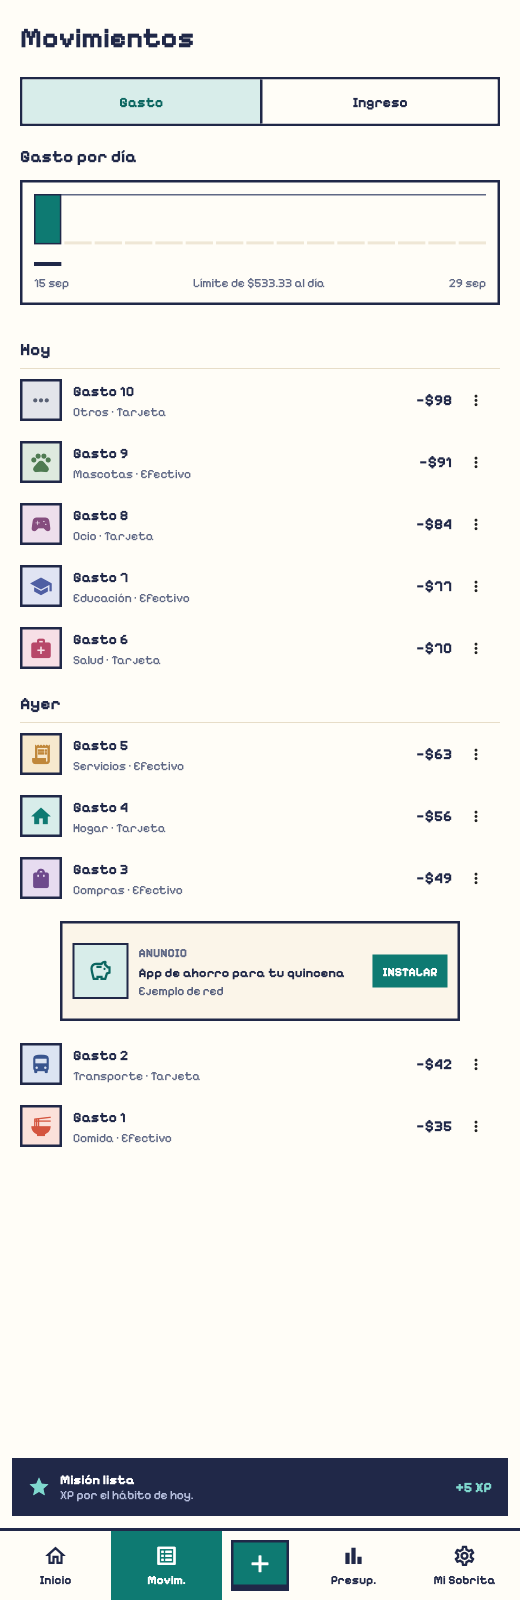
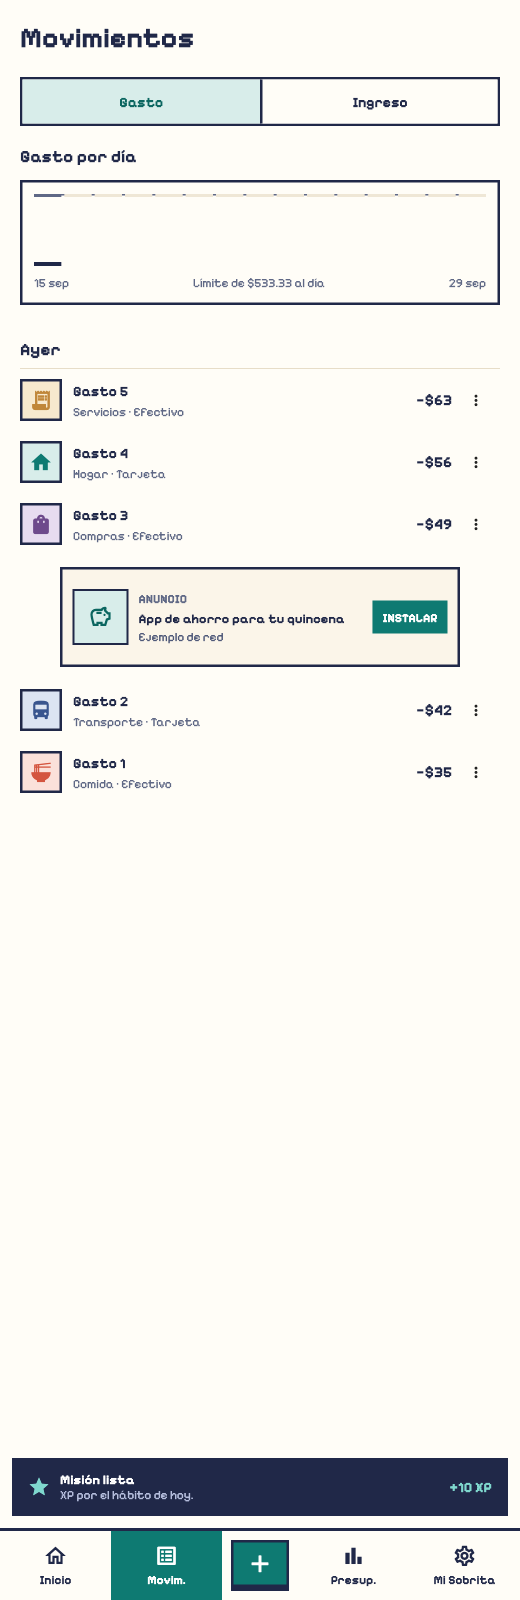
Adjust native ad eligibility and placement

diff --git a/test/native_ad_placement_test.dart b/test/native_ad_placement_test.dart
@@ -8,7 +8,6 @@ import 'package:sobra_app/models/pay_schedule.dart';
 import 'package:sobra_app/services/native_ad_service.dart';
 import 'package:sobra_app/state/sobra_store.dart';
 import 'package:sobra_app/theme/app_theme.dart';
-import 'package:sobra_app/widgets/pixel_ui.dart';
 import 'package:sobra_app/widgets/sobra_native_ad.dart';
 
 import 'support/localizations.dart';
@@ -107,14 +106,14 @@ Future<SobraStore> _storeWithExpenses(int count) async {
 }
 
 void main() {
-  testWidgets('seven expense rows do not reserve a native slot', (tester) async {
+  testWidgets('two expense rows do not reserve a native slot', (tester) async {
     useSpanishDevice(tester);
     tester.view.physicalSize = const Size(520, 1600);
     tester.view.devicePixelRatio = 1;
     addTearDown(tester.view.resetPhysicalSize);
     addTearDown(tester.view.resetDevicePixelRatio);
 
-    final store = await _storeWithExpenses(7);
+    final store = await _storeWithExpenses(2);
     final ads = NativeAds(store: store, graceDays: 0)..setSdkReady(true);
 
     await tester.pumpWidget(SobraApp(store: store, nativeAds: ads));
@@ -126,7 +125,7 @@ void main() {
     expect(find.byType(SobraNativeAd), findsNothing);
   });
 
-  testWidgets('the eighth expense row is followed by the native slot', (
+  testWidgets('the third expense row is followed by the native slot', (
     tester,
   ) async {
     useSpanishDevice(tester);
@@ -136,7 +135,7 @@ void main() {
     addTearDown(tester.view.resetDevicePixelRatio);
     await _loadFonts();
 
-    final store = await _storeWithExpenses(10);
+    final store = await _storeWithExpenses(5);
     final ads = NativeAds(store: store, graceDays: 0)..setSdkReady(true);
 
     await tester.pumpWidget(

diff --git a/lib/state/sobra_store.dart b/lib/state/sobra_store.dart
@@ -107,9 +107,9 @@ class SobraStore extends ChangeNotifier {
   /// would be state nothing reads.
   final Map<String, String> _rewardedAdLastEarnedDate = {};
 
-  /// Native ads begin only after a quiet install/update grace period. Existing
-  /// saved states receive this field on their first launch with ads, so they
-  /// get the same grace as a new install rather than seeing an ad immediately.
+  /// The local day native-ad eligibility began. The current policy has no
+  /// waiting period, but the date stays persisted so a future configured
+  /// grace period can be introduced without another state migration.
   String? _nativeAdInstallDay;
 
   /// The local day [_nativeAdImpressionsOnDay] belongs to.
@@ -220,7 +220,7 @@ class SobraStore extends ChangeNotifier {
     }
     // One-time migration for states written before native ads existed. Saving
     // now matters: if the missing value were only filled in memory, every
-    // restart would begin a fresh seven-day grace period forever.
+    // restart would begin a fresh configured grace period forever.
     await store._ensureNativeAdInstallDay();
     await store.settleCycles();
     store._lastObservedDate = store.today;

diff --git a/lib/screens/transactions_screen.dart b/lib/screens/transactions_screen.dart
@@ -192,10 +192,10 @@ class _TransactionsScreenState extends State<TransactionsScreen> {
           ),
         );
         movementIndex++;
-        // Date headings are deliberately not counted. Exactly eight real
-        // transaction rows are above the ad, even when the eighth ends a date
+        // Date headings are deliberately not counted. Exactly three real
+        // transaction rows are above the ad, even when the third ends a date
         // group or is the final row in the list.
-        if (movementIndex == 8 && nativeAds?.shouldPlace == true) {
+        if (movementIndex == 3 && nativeAds?.shouldPlace == true) {
           ledger.add(
             SobraNativeAd(
               key: ValueKey('native-ad-${nativeAds!.visitId}'),

diff --git a/lib/services/admob_config.dart b/lib/services/admob_config.dart
@@ -29,7 +29,6 @@ abstract final class AdMobConfig {
   static String get rewardedAdUnitId =>
       kReleaseMode ? _androidRewardedProduction : _androidRewardedTest;
 
-  /// New installs get a calm first week. Debug builds skip it so the test
-  /// creative can be checked immediately on a device.
-  static int get nativeGraceDays => kReleaseMode ? 7 : 0;
+  /// Native ads are eligible immediately for new users in every build mode.
+  static int get nativeGraceDays => 0;
 }

diff --git a/lib/widgets/sobra_native_ad.dart b/lib/widgets/sobra_native_ad.dart
@@ -1,4 +1,3 @@
-import 'package:flutter/foundation.dart';
 import 'package:flutter/material.dart';
 import 'package:google_mobile_ads/google_mobile_ads.dart';
 
